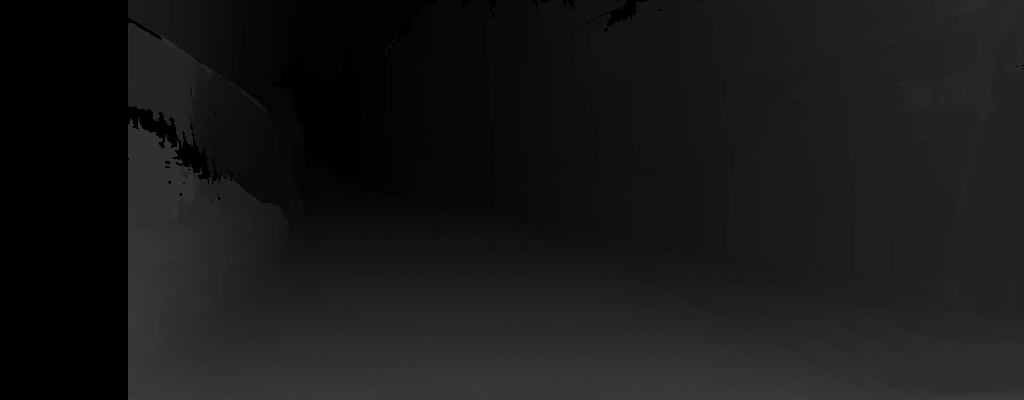
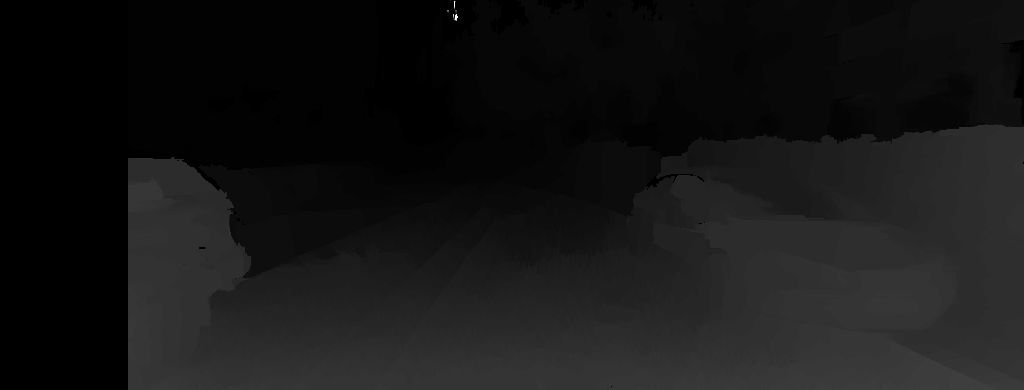
fix bugs

diff --git a/assignment.py b/assignment.py
@@ -2,7 +2,7 @@ import cv2
 import os
 import numpy as np
 from yolo2 import yolov3
-from utils import annotate_image, USEFUL_NAMES, mode, tiled_histogram_eq, preprocess_for_object_recognition, compute_luma
+from utils import annotate_image, mode, tiled_histogram_eq, preprocess_for_object_recognition, compute_luma, is_valid_match
 import matplotlib.pyplot as plt
 
 # where is the data ? - set this to where you have it
@@ -26,7 +26,8 @@ image_centre_w = 474.5;
 # e.g. set to 1506943191.487683 for the end of the Bailey, just as the vehicle turns
 
 # skip_forward_file_pattern = "1506943191.487683"; # set to timestamp to skip forward to
-skip_forward_file_pattern = "1506943221.487363";
+skip_forward_file_pattern = ""
+# skip_forward_file_pattern = "1506943221.487363";
 # skip_forward_file_pattern = "1506943231.485679"
 # skip_forward_file_pattern = "1506942484.480963"
 # skip_forward_file_pattern = "1506942530.47524"
@@ -151,25 +152,23 @@ for filename_left in left_file_list:
         _, disparity = cv2.threshold(disparity, 0, max_disparity * 16, cv2.THRESH_TOZERO)
         disparity_scaled = (disparity / 16.0).astype(np.uint8)
 
-        grayL = grayL[0:400,:]
-        grayR = grayR[0:400,:]
-        imgL = imgL[0:400,:]
-        disparity_scaled = disparity_scaled[0:400,:]
+        # imgL = imgL[0:400,:]
+        disparity_scaled = disparity_scaled[0:390,:]
 
         imgL = preprocess_for_object_recognition(imgL)
 
         tags = []
         for class_name, confidence, left, top, right, bottom in yolov3(imgL):
-            if class_name in USEFUL_NAMES:
-                left = max(left, 0)
-                top = max(top, 0)
-                depth = get_distance_otsu(disparity_scaled, (left, right, top, bottom))
+            left = max(left, 0)
+            top = max(top, 0)
+            if not is_valid_match(class_name, left, top, right, bottom):
+                continue
+            depth = get_distance_otsu(disparity_scaled, (left, right, top, bottom))
+            # Ignore if we have a nan depth
+            if np.isnan(depth):
+                continue
 
-                # Ignore if we have a nan depth
-                if np.isnan(depth):
-                    continue
-
-                tags.append((depth, class_name, confidence, left, top, right, bottom))
+            tags.append((depth, class_name, confidence, left, top, right, bottom))
 
         # Foreground first
         tags.sort(reverse=True)
@@ -177,7 +176,7 @@ for filename_left in left_file_list:
         # display image (scaling it to the full 0->255 range based on the number
         # of disparities in use for the stereo part)
         disparity_display = (disparity_scaled * (256. / max_disparity)).astype(np.uint8)
-        # cv2.imshow("disparity", disparity_display)
+        cv2.imshow("disparity", disparity_display)
 
         annotate_image(tags, imgL)
         cv2.imshow('result', imgL)

diff --git a/assignment_sparse_stereo.py b/assignment_sparse_stereo.py
@@ -17,7 +17,7 @@
 import cv2
 import os
 import numpy as np
-from utils import annotate_image, USEFUL_NAMES, tiled_histogram_eq
+from utils import annotate_image, tiled_histogram_eq, preprocess_for_object_recognition, is_valid_match
 from surf import match, find_keypoints_and_descriptors
 from yolo2 import yolov3
 
@@ -128,11 +128,6 @@ for filename_left in left_file_list:
         imgL = cv2.imread(full_path_filename_left, cv2.IMREAD_COLOR)
         imgR = cv2.imread(full_path_filename_right, cv2.IMREAD_COLOR)
 
-        # Crop images so that the bonnet of the car isn't being
-        # processed; we don't need that region anyways.
-        imgL = imgL[0:400,:]
-        imgR = imgR[0:400,:]
-
         print("-- files loaded successfully");
         print();
 
@@ -146,19 +141,28 @@ for filename_left in left_file_list:
         # so we fix this also using a initial threshold between 0 and max_disparity
         # as disparity=-1 means no disparity available
 
+        grayL = grayL[0:390, :]
+        grayR = grayR[0:390, :]
+
         l_keypoints, l_descriptors, r_keypoints, r_descriptors = find_keypoints_and_descriptors(grayL, grayR)
         depths = depth_map(grayL.shape, l_keypoints, l_descriptors, r_keypoints, r_descriptors)
 
         # grayL = cv2.drawKeypoints(grayL, l_keypoints, None, (73, 58, 215))
         # grayR = cv2.drawKeypoints(grayR, r_keypoints, None, (73, 58, 215))
 
+        # imgL = imgL[0:400,:]
+        # imgR = imgR[0:400,:]
+
+        imgL = preprocess_for_object_recognition(imgL)
+
         tags = []
 
         for class_name, confidence, left, top, right, bottom in yolov3(imgL):
-            # depth = np.nanmedian(depths[top:bottom,max(left, 0):right])
-            if class_name not in USEFUL_NAMES:
+            left = max(left, 0)
+            top = max(top, 0)
+            if not is_valid_match(class_name, left, top, right, bottom):
                 continue
-            depth = get_distance(depths, (max(left, 0), right, top, bottom))
+            depth = get_distance(depths, (left, right, top, bottom))
             if np.isnan(depth):
                 continue
 

diff --git a/utils.py b/utils.py
@@ -2,6 +2,17 @@ import cv2
 import numpy as np
 
 
+def is_valid_match(class_name, left, top, right, bottom):
+    if (class_name == "car" and is_bonnet_bounding_box(left, top, right, bottom)) \
+            or class_name not in USEFUL_NAMES:
+        return False
+    return True
+
+
+def is_bonnet_bounding_box(left, top, right, bottom):
+    return (bottom >= 500 or top >= 350) and right - left >= 900
+
+
 def compute_luma(img):
     B, G, R = cv2.split(img)
     M = np.maximum(B, np.maximum(G, R))
